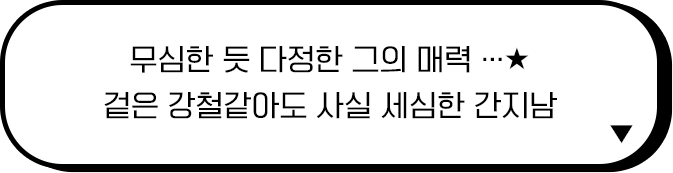
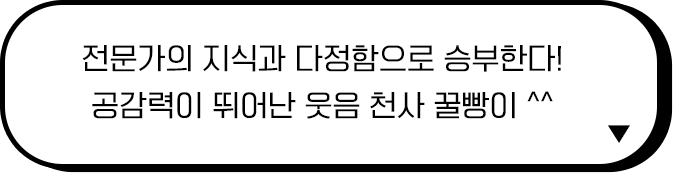
종간지 초식뉴 09섹션 이미지 변경 및 모든 링크 리뉴얼 홈페이지로 링크 변경

Changed region(s): [[0.1248, 0.5202, 0.8425, 0.6936], [0.1248, 0.2601, 0.8425, 0.4335], [0.9049, 0.7225, 0.9361, 0.8382]]

diff --git a/index.html b/index.html
@@ -156,7 +156,7 @@
                     aos-initaos-animate src="./img2/06/004.png" alt="">
                 <img class="sec6_img5" data-aos="fade-left" data-aos-duration="1000" data-aos-delay="500"
                     aos-initaos-animate src="./img2/06/005.png" alt="">
-                <a href="http://www.allmap.co.kr/default/03/menu01.php" target="_blank">
+                <a href="http://www.allmap.co.kr/default/portfolio/brand.php" target="_blank">
                     <img class="sec6_img6" aos-initaos-animate src="./img2/06/006.png" alt="">
                 </a>
 
@@ -250,17 +250,17 @@
                 <img class="sec9_img1" src="./img2/09/001.png" alt="">
                 <img class="sec9_img2" src="./img2/09/002.png" alt="">
                 <img class="sec9_img3" src="./img2/09/003.png" alt="">
-                <img class="sec9_img4" data-aos="fade-right" data-aos-duration="1000" data-aos-delay="700"
+                <img class="sec9_img5" data-aos="fade-right" data-aos-duration="1000" data-aos-delay="700"
                     aos-initaos-animate src="./img2/09/005.png" alt="">
-                <img class="sec9_img4_1" src="./img2/09/004_1.png" alt="">
-                <img class="sec9_img4_2" src="./img2/09/004_2.png" alt="">
-                <img class="sec9_img5" data-aos="fade-left" data-aos-duration="1000" data-aos-delay="700"
+                <img class="sec9_img5_1" src="./img2/09/004_1.png" alt="">
+                <img class="sec9_img5_2" src="./img2/09/004_2.png" alt="">
+                <img class="sec9_img4" data-aos="fade-left" data-aos-duration="1000" data-aos-delay="700"
                     aos-initaos-animate src="./img2/09/004.png" alt="">
-                <img class="sec9_img5_1" src="./img2/09/005_1.png" alt="">
-                <img class="sec9_img5_2" src="./img2/09/005_2.png" alt="">
+                <img class="sec9_img4_1" src="./img2/09/005_1.png" alt="">
+                <img class="sec9_img4_2" src="./img2/09/005_2.png" alt="">
 
-                <a target="_blank" href="https://open.kakao.com/o/sDdCgOld"><img class="sec9_img6_1" src="./img2/09/006_1.png" alt=""></a>
-                <a target="_blank" href="https://open.kakao.com/o/skOohOld"><img class="sec9_img6_2" src="./img2/09/006_2.png" alt=""></a>
+                <a target="_blank" href="https://open.kakao.com/o/sDdCgOld"><img class="sec9_img6_2" src="./img2/09/006_1.png" alt=""></a>
+                <a target="_blank" href="https://open.kakao.com/o/skOohOld"><img class="sec9_img6_1" src="./img2/09/006_2.png" alt=""></a>
             </div>
 
 
@@ -277,7 +277,7 @@
             <div id="sec11" data-aos="fade-up" data-aos-duration="1000" aos-initaos-animate>
                 <img class="sec11_img1" src="./img2/11/001.png" alt="">
                 <img class="sec11_img2" src="./img2/11/002.png" alt="">
-                <a href="http://www.allmap.co.kr/default/main/main.php" target="_blank"><img class="sec11_img3"
+                <a href="http://www.allmap.co.kr/" target="_blank"><img class="sec11_img3"
                         src="./img2/11/003.png" alt=""></a>
             </div>
             <!-- 12번 페이지 -->
@@ -407,7 +407,7 @@
     src="./img2m/10/01.png" alt="">
     <img class="sec10_img2"
     src="./img2m/10/02.png" alt="">
-    <a href="http://www.allmap.co.kr/default/03/menu01.php" target="_blank">
+    <a href="http://www.allmap.co.kr/" target="_blank">
     <img class="sec10_img3"
     src="./img2m/10/03.png" alt=""></a>
     
@@ -453,22 +453,18 @@
     
 
    <!-- 13번 페이지 -->
-   <div id="sec13">
-    <img src="./img2/allmap_logo.png" alt="">
-    <footer class="">
+   <footer>
+    <img width="100%" class="pc" src="./img2/footer/pooter.png" alt="">
+    <img width="100%" class="mo" src="./img2/footer/pooter_mo.png" alt="">
 
 
-
-        <p>상호명: 올맵&ensp; |&ensp; 대표 : 김성훈 외 1명&ensp; | &ensp;사업자등록번호 : 371-77-00020 충청북도 청주시 흥덕구 송절동
-            560-19번지 2층 올맵
-            <br>개인정보책임자 : 김성훈&ensp; | &ensp;고객지원 : 문의 게시판 또는 070-4213-5365
-            <br>평일 09:00 ~ 18:00 / 점심시간: 12:00-13:00 / 주말/공휴일 휴무
-
-        </p>
-    </footer>
-
-</div>
-
+<ul>
+    <li><a target="_blank" href="https://www.youtube.com/channel/UCMrSNEi7huWZzM8d2xTn5Mg"><img  src="./img2/footer/1491580651-yumminkysocialmedia28_83061.png" alt="유튜브"></a></li>
+    <li><a target="_blank" href="https://blog.naver.com/allmapmkt"><img src="./img2/footer/b.svg" alt="네이버"></a></li>
+    <li><a target="_blank" href="https://instagram.com/allmap_pictures?utm_medium=copy_link"><img  class="pooter_icons" src="./img2/footer/instagram.svg" alt="인스타"></a></li>
+    <li><a target="_blank" href="https://www.facebook.com/cjmap365"><img  class="pooter_icons" src="./img2/footer/facebook_official_logo_icon_169181.png" alt="페이스북"></a></li>
+</ul>
+</footer>
 
 
 

diff --git a/style.css b/style.css
@@ -726,16 +726,15 @@ width: 100%;
 
 #sec9 .sec9_img4_1{
     position: absolute;
-    width: 10vw;
-    left: 20%;
-    top: 50vw;
-    
+    width: 12vw;
+    left: 71%;
+    top: 39vw;
     
 }
 #sec9 .sec9_img4_2{
     position: absolute;
     width: 25vw;
-    height: 6vw;
+    height: 7vw;
     left: 23%;
     top: 58vw;
     
@@ -749,17 +748,17 @@ width: 100%;
     
 }
 #sec9 .sec9_img5_1{
+
     position: absolute;
-    width: 10vw;
-    left: 69%;
-    top: 40vw;
-    
+    width: 11vw;
+    left: 18%;
+    top: 50vw;
     
 }
 #sec9 .sec9_img5_2{
     position: absolute;
     width: 25vw;
-    height: 6vw;
+    height: 7vw;
     left: 50%;
     top: 58vw;
     
@@ -770,7 +769,7 @@ width: 100%;
     width: 15vw;
    
     left: 55%;
-    top: 65vw;
+    top: 67vw;
     
     
 }
@@ -779,7 +778,7 @@ width: 100%;
     width: 15vw;
     
     left: 28%;
-    top: 65vw;
+    top: 67vw;
     
     
 }
@@ -1488,43 +1487,35 @@ h2{
 #sec12 .gogo:hover {
     transform:scale(1.1);
 }
+}
+/* ============================================푸터====================================== */
 
-#sec13{
+
+
+footer ul{position: absolute;top: 12vw;left: 39.5%;}
+footer ul img{margin: 0.8vw;width: 2vw;}
+.pooter_icons{border-radius: 25px;}
+
+footer {
     position: relative;
-    background-color: #1c1c1c;
-    height: 38vw;
-    font-family: 'S-CoreDream-3Light';
-}
-#sec13 img{
-    position: absolute;
-    text-align: center;
-    width: 25vw;
-    height: 12vw;
-    left: 40%;
-    top: 4vw;
-
-
 }
 
-#sec13 footer{
-  
-    text-align: center;
-    color: #fff;
-    
-    padding: 2vw;
-    padding-top: 18vw;
-    
-    
+footer li{
+    display: inline-block;
 }
 
-#sec13 footer p{
-
-    padding-top: 4vw;
-    padding: 2vw;
-    color:gray;
-    font-size: 10px;
-    letter-spacing: 1px;
-
-
+footer li a img:hover{
+    opacity: 0.5;
+    transition:.5s;-webkit-transition: .5s;
 }
+
+@media all and (max-width:768px) {
+    footer ul{top: 98vw; left: 30%;}
+    footer ul img{margin: 5px;width: 25px;height: 25px;}
+    .pooter_icons{border-radius: 25px;}
 }
+
+
+
+
+
